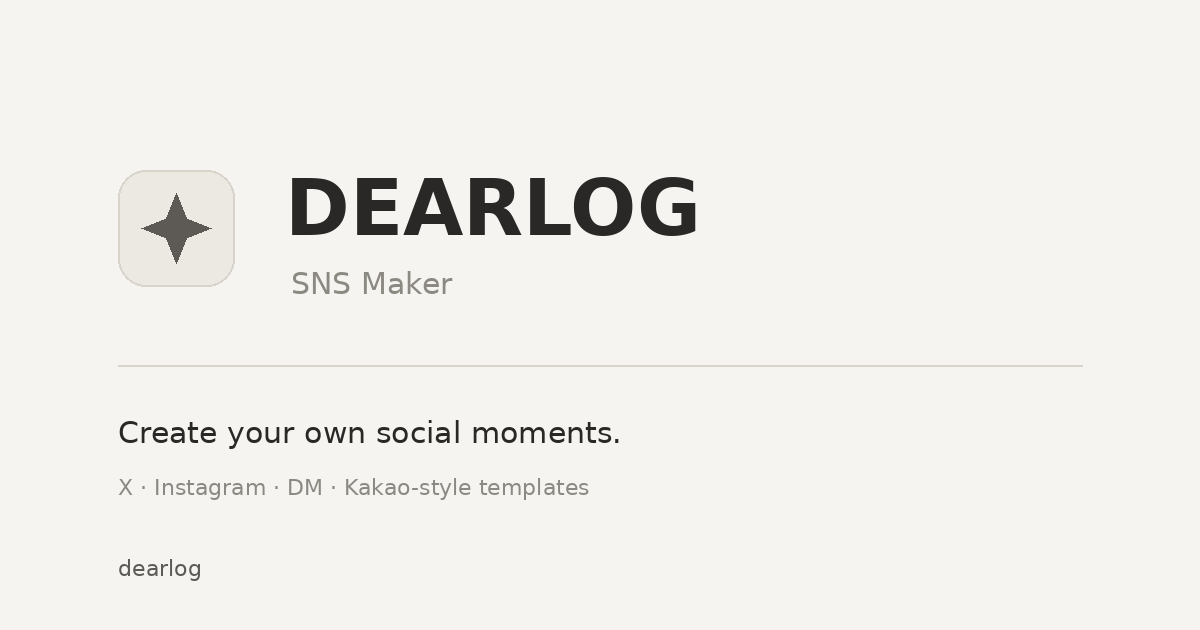
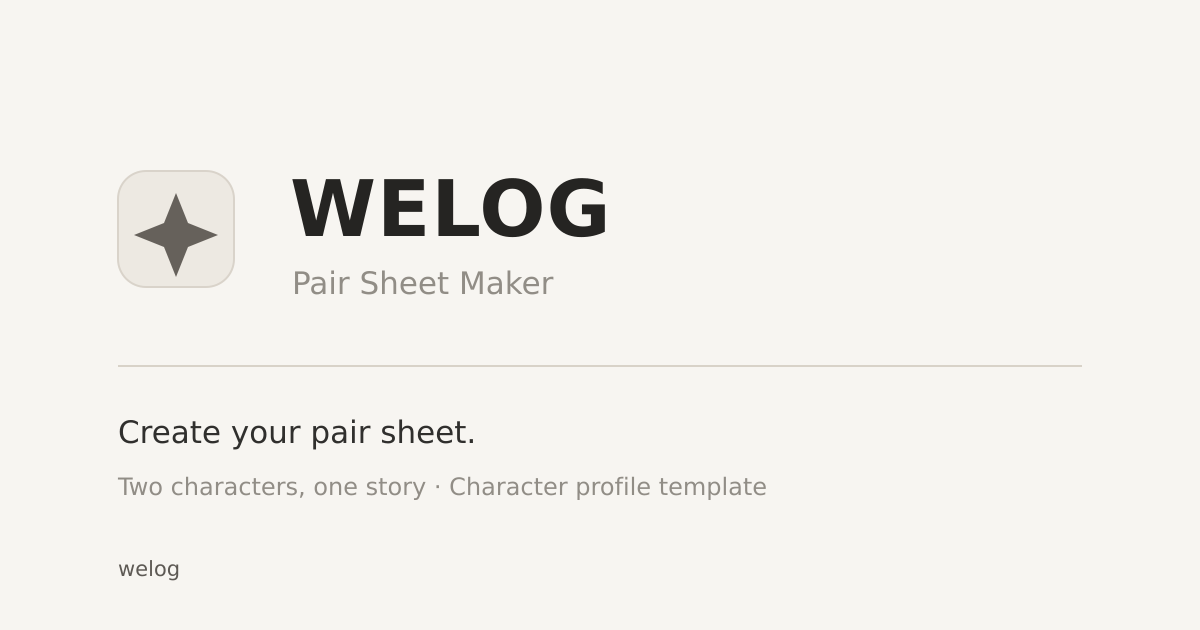
Replace DearLog social preview with WeLog

diff --git a/index.html b/index.html
@@ -8,7 +8,16 @@
   <meta name="description" content="두 캐릭터와 관계를 한 장에 기록하는 페어 시트 메이커 WeLog">
   <meta property="og:title" content="WeLog — Pair Sheet Maker">
   <meta property="og:description" content="두 캐릭터와 관계를 한 장에 기록해보세요.">
-  <meta property="og:image" content="./assets/og-image.png">
+  <meta property="og:url" content="https://unfail-human.github.io/WeLog/">
+  <meta property="og:type" content="website">
+  <meta property="og:image" content="https://unfail-human.github.io/WeLog/assets/og-image.png?v=20260827">
+  <meta property="og:image:width" content="1200">
+  <meta property="og:image:height" content="630">
+  <meta property="og:image:alt" content="WELOG Pair Sheet Maker">
+  <meta name="twitter:card" content="summary_large_image">
+  <meta name="twitter:title" content="WeLog — Pair Sheet Maker">
+  <meta name="twitter:description" content="두 캐릭터와 관계를 한 장에 기록해보세요.">
+  <meta name="twitter:image" content="https://unfail-human.github.io/WeLog/assets/og-image.png?v=20260827">
   <link rel="icon" href="./assets/favicon.png">
   <link rel="stylesheet" href="./welog-v2.css?v=21">
 </head>
